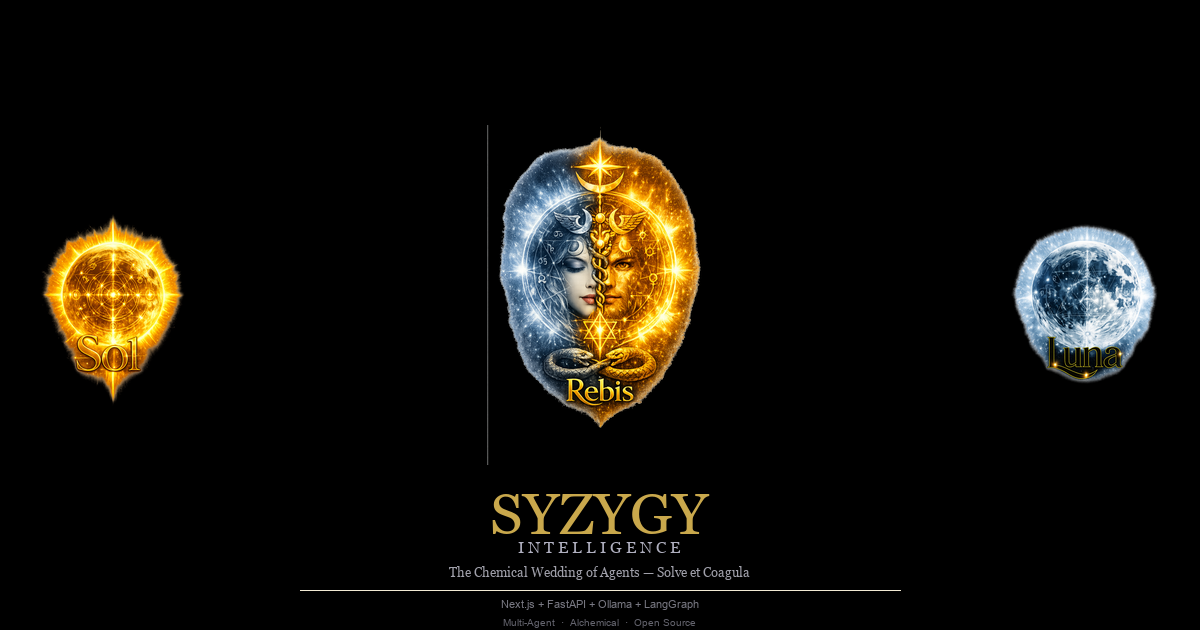
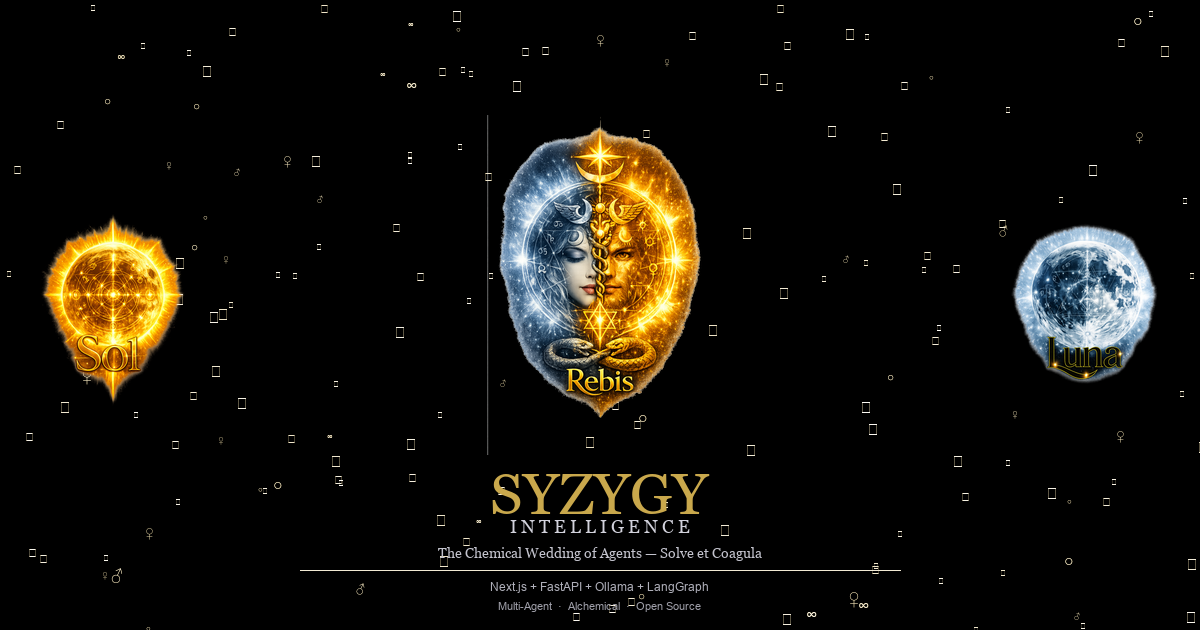
Add alchemical symbol stars, brighter silver text, move gold title higher

diff --git a/syzygy-intelligence/scripts/render_banner.py b/syzygy-intelligence/scripts/render_banner.py
@@ -1,6 +1,6 @@
-"""Render social preview banner with Sol, Luna, Rebis logos, black background, gold/silver text."""
-from PIL import Image, ImageDraw, ImageFont, ImageFilter
-import os
+"""Render social preview banner: Sol/Luna/Rebis, alchemy stars, black bg, gold/silver text."""
+from PIL import Image, ImageDraw, ImageFont
+import os, random
 
 W, H = 1200, 630
 GEORGIA = "C:/Windows/Fonts/georgia.ttf"
@@ -12,63 +12,81 @@ sol_raw = Image.open(f"{BRANDING}/sol.logo.png").convert("RGBA")
 luna_raw = Image.open(f"{BRANDING}/luna.logo.png").convert("RGBA")
 rebis_raw = Image.open(f"{BRANDING}/rebis.logo.png").convert("RGBA")
 
-# Resize logos
 sol_h = 280
-ratio = sol_h / sol_raw.height
-sol = sol_raw.resize((int(sol_raw.width * ratio), sol_h), Image.LANCZOS)
-
+sol = sol_raw.resize((int(sol_raw.width * sol_h / sol_raw.height), sol_h), Image.LANCZOS)
 luna_h = 280
-ratio = luna_h / luna_raw.height
-luna = luna_raw.resize((int(luna_raw.width * ratio), luna_h), Image.LANCZOS)
-
+luna = luna_raw.resize((int(luna_raw.width * luna_h / luna_raw.height), luna_h), Image.LANCZOS)
 rebis_h = 340
-ratio = rebis_h / rebis_raw.height
-rebis = rebis_raw.resize((int(rebis_raw.width * ratio), rebis_h), Image.LANCZOS)
+rebis = rebis_raw.resize((int(rebis_raw.width * rebis_h / rebis_raw.height), rebis_h), Image.LANCZOS)
 
-# Create banner
 img = Image.new("RGBA", (W, H), (0, 0, 0, 255))
 draw = ImageDraw.Draw(img)
 
 GOLD = (201, 168, 76)
-SILVER = (176, 176, 192)
+GOLD_L = (220, 195, 110)
+SILVER = (200, 200, 210)
 
-# Position logos
-# Sol: left side, vertically centered
-sol_x = 20
-sol_y = (H - sol.height) // 2
+# ── Alchemical symbols as stars ──────────────────────────
+random.seed(42)
+symbols = [
+    "\u2606",  # white star
+    "\u2605",  # black star
+    "\u263f",  # mercury
+    "\u2640",  # venus/feminine
+    "\u2642",  # mars/masculine
+    "\u2609",  # sun
+    "\u263d",  # crescent moon
+    "\u2726",  # four-pointed star
+    "\u2735",  # eight-pointed star
+    "\u221e",  # infinity
+    "\u25cb",  # circle
+    "\u25b3",  # upward triangle (fire)
+    "\u25bd",  # downward triangle (water)
+    "\u2727",  # white four-point star
+    "\u2734",  # eight-pointed star
+]
+fnt_small = ImageFont.truetype(ARIAL, 12)
+fnt_tiny = ImageFont.truetype(ARIAL, 8)
+fnt_med = ImageFont.truetype(ARIAL, 16)
+
+for _ in range(180):
+    x = random.randint(0, W - 1)
+    y = random.randint(0, H - 1)
+    sym = random.choice(symbols)
+    size = random.choice([fnt_tiny, fnt_small, fnt_med])
+    alpha = random.randint(15, 80)
+    draw.text((x, y), sym, fill=(*GOLD, alpha), font=size)
+
+# ── Position logos ───────────────────────────────────────
+sol_x, sol_y = 20, (H - sol.height) // 2
 img.paste(sol, (sol_x, sol_y), sol)
 
-# Luna: right side, vertically centered
-luna_x = W - luna.width - 20
-luna_y = (H - luna.height) // 2
+luna_x, luna_y = W - luna.width - 20, (H - luna.height) // 2
 img.paste(luna, (luna_x, luna_y), luna)
 
-# Rebis: center, slightly raised
-rebis_x = (W - rebis.width) // 2
-rebis_y = (H - rebis.height) // 2 - 20
+rebis_x, rebis_y = (W - rebis.width) // 2, (H - rebis.height) // 2 - 30
 img.paste(rebis, (rebis_x, rebis_y), rebis)
 
-# Helper
+# ── Helper ───────────────────────────────────────────────
 def center_text(d, text, y, size, fill, font_path):
     fnt = ImageFont.truetype(font_path, size)
     bb = fnt.getbbox(text)
     tw = bb[2] - bb[0]
     d.text(((W - tw) // 2, y), text, fill=fill, font=fnt)
 
-# Title (below rebis)
-title_y = rebis_y + rebis.height + 15
+# ── Title ────────────────────────────────────────────────
+title_y = rebis_y + rebis.height + 5  # moved higher
 center_text(draw, "SYZYGY", title_y, 58, GOLD, GEORGIA)
-center_text(draw, "I N T E L L I G E N C E", title_y + 58, 16, SILVER, GEORGIA)
+center_text(draw, "I N T E L L I G E N C E", title_y + 56, 18, (210, 210, 220), GEORGIA)
 
-# Tagline
-center_text(draw, "The Chemical Wedding of Agents \u2014 Solve et Coagula", title_y + 85, 13, (160, 160, 170), GEORGIA)
+# ── Tagline ──────────────────────────────────────────────
+center_text(draw, "The Chemical Wedding of Agents \u2014 Solve et Coagula", title_y + 85, 14, (195, 195, 205), GEORGIA)
 
-# Bottom bar
+# ── Bottom bar ──────────────────────────────────────────
 draw.line([(300, title_y + 110), (900, title_y + 110)], fill=(*GOLD, 60), width=1)
-center_text(draw, "Next.js + FastAPI + Ollama + LangGraph", title_y + 118, 11, (120, 120, 130), ARIAL)
-center_text(draw, "Multi-Agent  \u00b7  Alchemical  \u00b7  Open Source", title_y + 136, 10, (100, 100, 110), ARIAL)
+center_text(draw, "Next.js + FastAPI + Ollama + LangGraph", title_y + 120, 12, (175, 175, 185), ARIAL)
+center_text(draw, "Multi-Agent  \u00b7  Alchemical  \u00b7  Open Source", title_y + 140, 11, (160, 160, 170), ARIAL)
 
-# Save
 out = "syzygy-intelligence/.github/assets/og-banner.png"
 img.save(out, "PNG")
 print(f"Banner saved: {out} ({os.path.getsize(out)} bytes)")